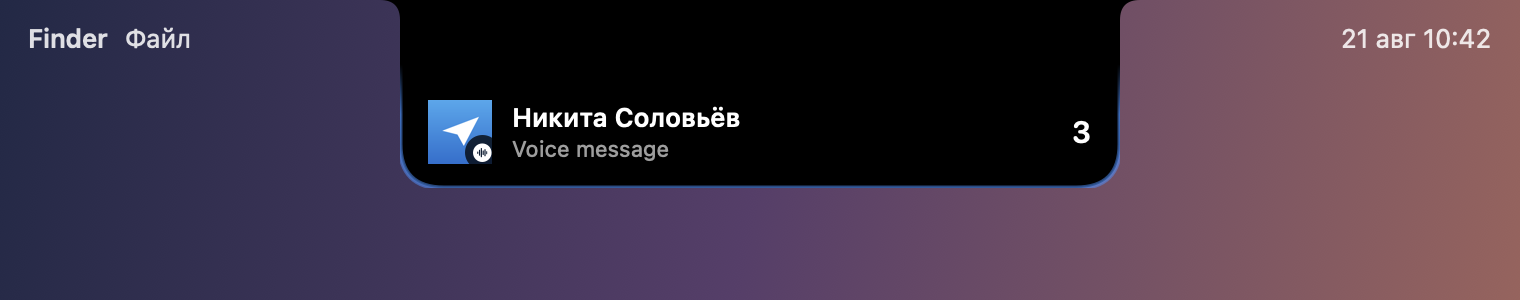
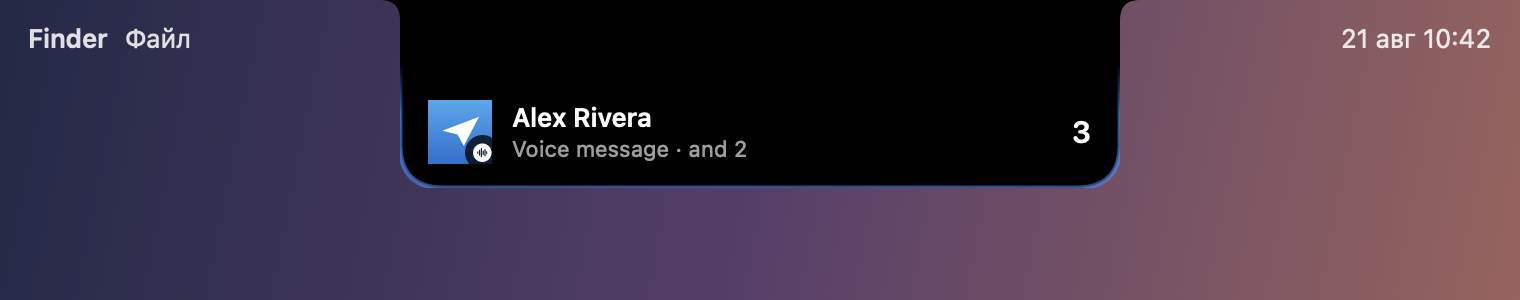
Установщик в два клика
Скачал из релиза, щёлкнул дважды — и всё: проверит версию macOS, поставит
инструменты разработчика, если их нет, скачает исходники, соберёт, установит
и запустит. Повторный запуск обновляет.

Сообщения на русском или английском по системному языку — у проекта два
README, пусть и установщик говорит на понятном.

Заодно на снимке для README вымышленное имя вместо имени владельца.

Changed region(s): [[0.3401, 0.36, 0.4947, 0.42], [0.4329, 0.48, 0.4947, 0.54]]

diff --git a/Sources/AuraCore/Snapshots/SnapshotScenes.swift b/Sources/AuraCore/Snapshots/SnapshotScenes.swift
@@ -344,7 +344,7 @@ public enum SnapshotScenes {
             environment.activities.upsert(
                 Activity(
                     id: "notification.Telegram",
-                    title: "Никита Соловьёв",
+                    title: "Alex Rivera",
                     subtitle: "Голосовое сообщение",
                     symbol: "waveform.circle.fill",
                     tint: .white,
@@ -365,7 +365,9 @@ public enum SnapshotScenes {
                     id: UUID(),
                     app: "Telegram",
                     bundleID: "ru.keepcoder.Telegram",
-                    sender: "Никита Соловьёв",
+                    // Имя выдуманное: снимки уезжают в README, и своё
+                    // имя там ни к чему.
+                    sender: "Alex Rivera",
                     body: nil,
                     kind: .voice,
                     icon: icon,

diff --git a/README.ru.md b/README.ru.md
@@ -94,10 +94,22 @@ Scripts/aura remove --id build
 - Xcode 15.3+ или инструменты командной строки: `xcode-select --install`
 - Больше ничего: внешних зависимостей у проекта нет
 
-### 2. Одна команда
+### 2. Простой путь
+
+Скачайте **Install-Aura.command** из
+[последнего релиза](https://github.com/fqfqfqff/Dynamic-Island-Clipboard-MacOS/releases/latest)
+и щёлкните по нему дважды — всё. Он проверит версию macOS, поставит
+инструменты разработчика, если их нет, скачает исходники в `~/Developer/Aura`,
+соберёт, установит и запустит Aura.
+
+Скачанный скрипт macOS с первого раза не откроет — нажмите на нём правой
+кнопкой и выберите **Открыть**, затем подтвердите. Так работает Gatekeeper.
+
+### 2б. Или из терминала
 
 ```bash
-git clone https://github.com/<вы>/aura && cd aura && ./Scripts/setup.sh
+git clone https://github.com/fqfqfqff/Dynamic-Island-Clipboard-MacOS && \
+  cd Dynamic-Island-Clipboard-MacOS && ./Scripts/setup.sh
 ```
 
 `setup.sh` делает пять вещей по порядку:

diff --git a/README.md b/README.md
@@ -92,10 +92,22 @@ Everything is one command, but it is worth knowing what it does.
 - Xcode 15.3+ or the Command Line Tools — `xcode-select --install`
 - Nothing else: the project has no external dependencies
 
-### 2. One command
+### 2. The easy way
+
+Download **Install-Aura.command** from the
+[latest release](https://github.com/fqfqfqff/Dynamic-Island-Clipboard-MacOS/releases/latest),
+double-click it, and you are done. It checks the macOS version, installs the
+developer tools if they are missing, downloads the sources into `~/Developer/Aura`,
+builds, installs and launches Aura.
+
+macOS will refuse to open a downloaded script on the first try — right-click it
+and choose **Open**, then confirm. That is Gatekeeper doing its job.
+
+### 2b. Or from the terminal
 
 ```bash
-git clone https://github.com/<you>/aura && cd aura && ./Scripts/setup.sh
+git clone https://github.com/fqfqfqff/Dynamic-Island-Clipboard-MacOS && \
+  cd Dynamic-Island-Clipboard-MacOS && ./Scripts/setup.sh
 ```
 
 `setup.sh` does five things, in order:
